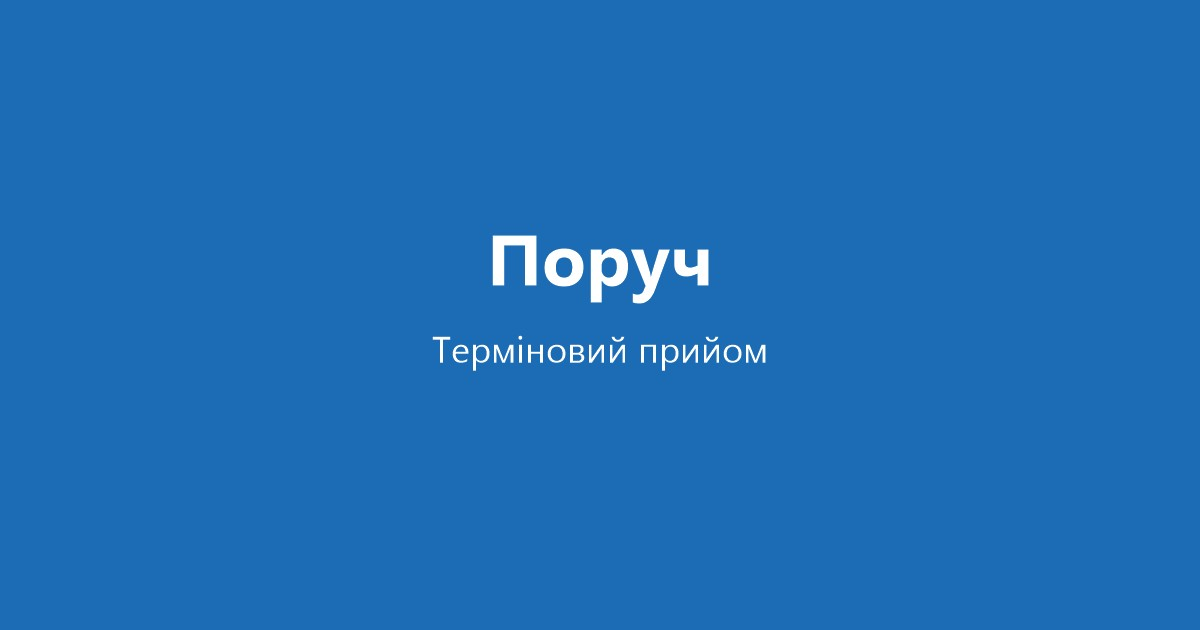
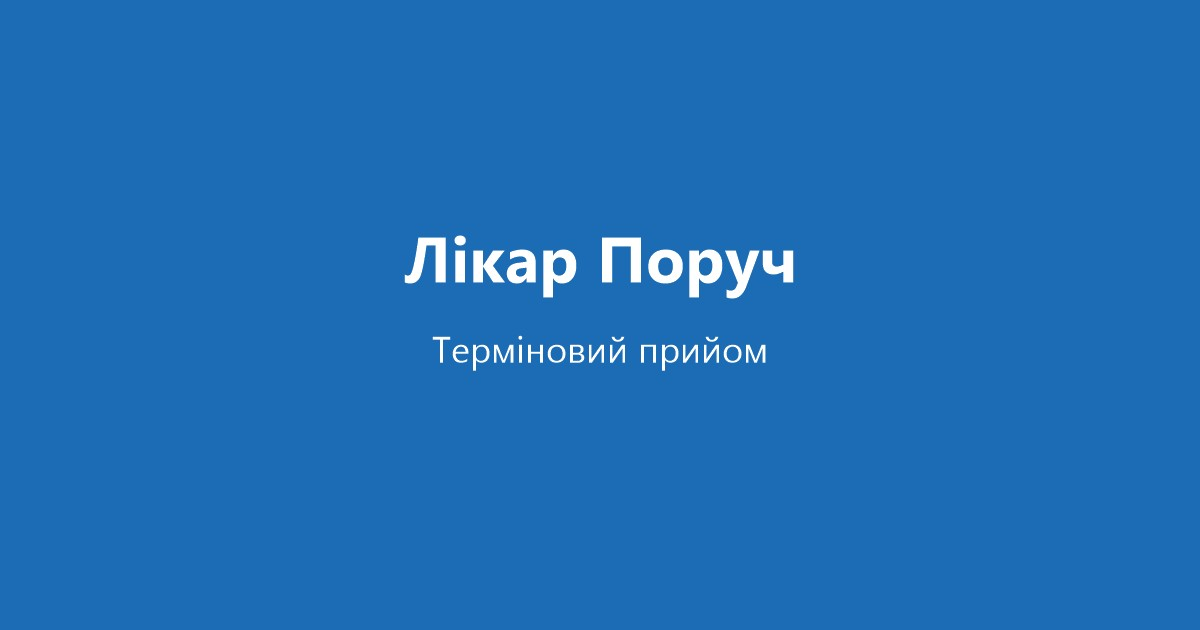
Polish template-urgent top strip and brand name

Changed region(s): [[0.3392, 0.3619, 0.6783, 0.4825]]

diff --git a/src/data/demo-urgent.ts b/src/data/demo-urgent.ts
@@ -8,7 +8,7 @@ export const footerNote =
 	'Інформація на сайті має ознайомчий характер і не замінює консультацію лікаря. Діагноз і план лікування визначає лікар після огляду. У разі загрози життю телефонуйте 103 або 112.';
 
 export const header = {
-	name: 'Поруч\nмедичний центр',
+	name: 'Лікар Поруч',
 	nav: [
 		{ label: 'Послуги', href: '#services' },
 		{ label: 'Ціни', href: '#prices' },

diff --git a/src/config/demo-urgent.ts b/src/config/demo-urgent.ts
@@ -24,8 +24,8 @@ export const demoUrgent = {
 	id: 'demo-urgent',
 	locale: 'uk',
 	siteUrl: 'https://landing-engine-gamma.vercel.app',
-	name: 'Медичний центр «Поруч»',
-	tagline: 'медичний центр',
+	name: '«Лікар Поруч»',
+	tagline: 'Лікар Поруч',
 	businessType: 'MedicalClinic',
 	staffLabel: 'Лікар',
 	contacts: {
